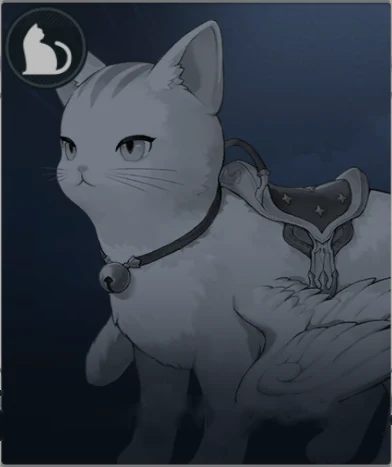
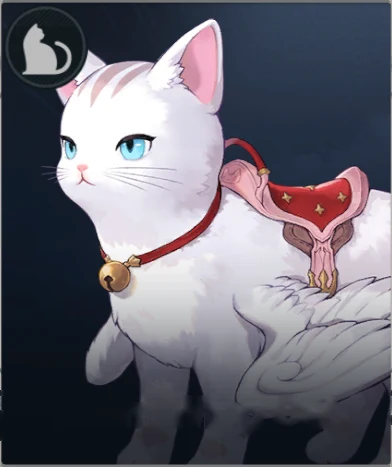
Story chapter 5: portraits, titles 11/109, Hero Quest Karmas, L50 stats, Gauron raid tab, rune notes
Claude-Session: https://claude.ai/code/session_01EEUGEyjkEXG6uzpCmHTwFz

diff --git a/AGENTS.md b/AGENTS.md
@@ -22,9 +22,10 @@ Every commit to `main` goes live about a minute later. There is no build step, n
 | `assets/items/` | `materials.json`, `important.json`, `ingredients.json`, `achievements.json` and `cookbook.json` (73 recipes, the 17 discovered): every item in David's Materials, Important and Ingredients tabs (name, type, rarity colour, description, use, main sources; read by OCR from his inventory video, 31 Oct 2026) with icons in `icons/`, and `README.txt` summarising what levels what. Not used by the page yet. |
 | `assets/merc-crew/` | Mercenary Crew Level reward track screenshots and `notes.txt`. Not used by the page. |
 | `assets/patch_notes/<version>.txt` | The official Steam patch notes, word for word (1.0.0 = the launch notice). The source for `PATCH_NOTES`; linked from the Patch Notes page. |
-| `assets/runes/` | Rune type icons and Rune slot circles cut from David's screens, not used yet (see its README). |
+| `assets/runes/` | Rune type icons and Rune slot circles cut from David's screens, not used yet. Its README lists the five types, five grades, raid drops and rules (no upgrades, Synthesis needs 10, removing a Damaged rune costs 10,000 Gold). |
 | `assets/exchange/` | Exchange screenshots (`source/`) and `prices.txt`: every Exchange price, what each material does, crafting and skill-upgrade costs, Hunt boss materials, and `chest-drops.txt` (David's notes on what world chests drop). Not used by the page yet. |
 | `assets/help/` | David's screenshots of the in-game Help pages (status effects, Super Armor and ~30 other topics, plus the five Mercenary Crew Grade screens), with the text in `notes.txt`. Not used by the page. |
+| `assets/raid/` | Raid screenshots (introduction, Gauron rewards per difficulty, Raid menu icons white/gold) and `notes.txt` (difficulties, rewards, the Ogre → Gauron phase 1 → phase 2 structure with HP carried over). Gauron is a Raid boss tab in `TIER_LIST_V2.bosses`. |
 | `assets/rift/` | The Rift (not released as a mode yet): `rift-portal.webp` and `notes.txt` with David's notes on Corrupted Entities. Not used by the page. |
 | `assets/tower/` | Tower of Trials screenshots (`source/`) and `notes.txt`: towers seen, floor conditions, cumulative star rewards (the source of Whirling Thoughts). Not used by the page yet. |
 | `CHANGELOG.md` | A record of every change, newest first. |

diff --git a/CHANGELOG.md b/CHANGELOG.md
@@ -1,6 +1,15 @@
 ## 2026-11-01 — Claude: Help pages and Crew grades
 - `assets/help/`: David's Help screenshots (converted to WebP) with their text in `notes.txt`, plus the five Mercenary Crew promotions (requirements, unlocks, rewards). Notes only.
 
+## 1 Nov 2026 — Story chapter 5 batch
+- Colour portraits for Kalien and Othello (now owned); Dawn Wing Cat familiar (owned).
+- Titles 11/109: Impregnable, One Who Erases Names, I Want to Do Missions, High-Ranking Mercenary Crew.
+- Cerese, Othello, Ornette, Kalien, Dana and Theresia's signature Karmas: source is now their Hero Quest reward.
+- Items: Wild Onion ingredient; Intermediate Monster Bone Fragment, Claw and Essence materials.
+- Level 50 measurements (Reina, Charlotte): level curve refitted on L1–L50, L50 breakthroughs measured for both profiles; `hero_stats.py --write` rerun.
+- Raid: Gauron added as the first Raid boss tab in the new tier list (preview); `assets/raid/` screenshots converted to WebP with `notes.txt`.
+- Runes: five types and five grades recorded in `assets/runes/README.txt` from David's Raid video.
+
 ## 2026-11-01 — Claude: achievements, Mercenary Crew Level
 - `assets/items/achievements.json`: 103 achievements with conditions, David's progress and the title each gives. Titles tab: Curious Hands and 【777】 now show their achievements.
 - `assets/merc-crew/`: the free Crew Level reward track (screenshots + notes).
